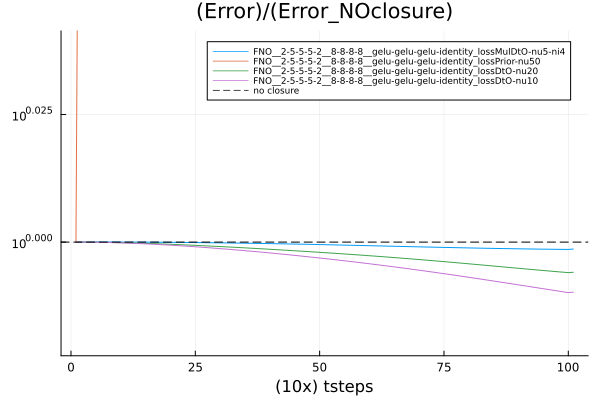
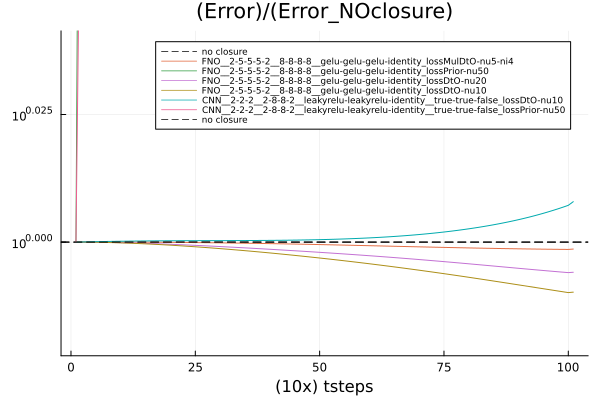
Fix CNN

diff --git a/README.md b/README.md
@@ -5,6 +5,7 @@ The equation is solved in the *spectral space* using *SciML solvers*.
 
 ## Details of the tutorials
 * In `NS_SciML_vs_direct.jl` you can see the comparison between different SciML solvers with an explicit Runge-Kutta approach:
+
 ![Alt text](plots/NS_SciML_vs_direct.gif)
 
 * In `NS_data_generation.jl` you can generate DNS and LES data, to train multiple Neural closures.
@@ -12,7 +13,10 @@ The equation is solved in the *spectral space* using *SciML solvers*.
 * In `NS_train_closure_model.jl` you can specify the type of closure that you would like to train. It is also very easy to implement new closures (such as [CNO](https://github.com/bogdanraonic3/ConvolutionalNeuralOperator)) following the template of the other closures.
 
 * In `NS_test_closure.jl` you can visualize the performance of a specific trained closure:
+  
 ![Alt text](plots/FNO__2-5-5-5-2__8-8-8-8__gelu-gelu-gelu-identity_lossDtO-nu20_DNS_128_LES_64_nu_0.0005_1234.gif)
 
 * In `NS_compare_closures.jl` you can compare all the different closures that you have trained for a specific problem. This allow you to easily visualize which closure approach performs better:
+  
 ![Alt text](plots/DNS_128_LES_64_nu_0.0005_1234_error.png)
+*(Disclaimer: the models in the figure have been '''trained''' for ~10m of single cpu time)*
